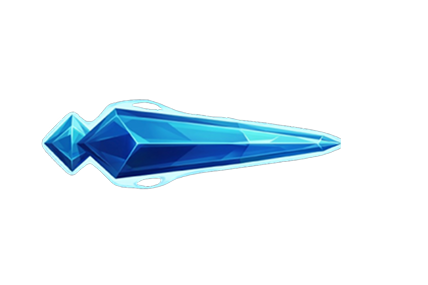
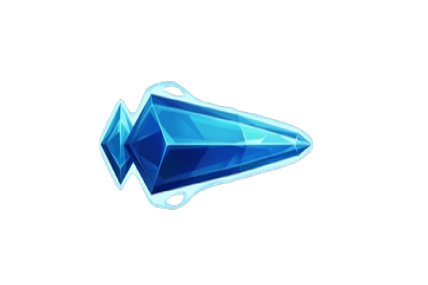
added some char texture

Changed region(s): [[0.0911, 0.2807, 0.8201, 0.7579]]

diff --git a/main.py b/main.py
@@ -44,17 +44,6 @@ running = True
 while running:
     # print(clock.get_fps())
     dt = clock.tick(60) / 1000  # .tick(framerate) mengembalikan waktu ms antar frame, ms / 1000 = detik
-
-    # og_dt = clock.tick(60) / 1000  #slow-mo effect when overloaded, use when having too much frame drops
-    # og_dt = min(og_dt, 0.033)  # cap at ~30 FPS equivalent
-    
-    # fps = clock.get_fps() 
-    # if fps < 55: time_scale += (fps / 60 - time_scale) * 5 * og_dt
-    # else: time_scale += (1.0 - time_scale) * 5 * og_dt
-    # time_scale = max(0.5, min(time_scale, 1.2))
-
-    # target_dt = 1 / 60
-    # dt = target_dt * time_scale
     
     for event in pygame.event.get():
         if event.type == pygame.QUIT:
@@ -82,7 +71,11 @@ while running:
             stage.retry(screen, PlayerTest)
             cx, cy = camera.get_snap() # snap to default pos (border, ground)
             clock.tick() #reset clock, so it doesnt make entity teleport
-            continue
+        else:
+            if stage.lost:  draw_lost(screen)
+            elif stage.win: draw_win(screen)
+            pygame.display.update()
+        continue
 
     if all(not b.alive for b in stage.boss_list):
         if PlayerTest.rect.right >= BG_WIDTH - BG_BORDER_X:
@@ -90,13 +83,6 @@ while running:
             cx, cy = camera.get_snap()
             clock.tick()
             continue
-    
-    if stage.lost: 
-        draw_lost(screen)
-        continue
-    if stage.win: 
-        draw_win(screen)
-        continue
     
     # Update Entities
     stage.update_entities(dt, PlayerTest)
@@ -108,7 +94,6 @@ while running:
     PlayerTest.update(keys, click_state, dt, stage.plat_list)
     
 
-    
     # Draw objects
     stage.draw_stage(world_surface)
 

diff --git a/Entities/Player.py b/Entities/Player.py
@@ -10,7 +10,7 @@ class Player(GameObject):
         attack_data = load_json("player/attack.json")
 
         super().__init__(x= BG_BORDER_X + 10, y=GROUND_Y, width=80, height=100, hitbox_radius=self.config['hitbox'],
-                         image_path="character/"+image, size_offsetx=50, size_offsety=30)
+                         image_path="cirno/"+image, size_offsetx=50, size_offsety=30)
 
         # elapsed -> stopwatch (0,1,2, until n) counting up <-> threshold
         # timestamp -> records the time an action triggered <-> duration
@@ -78,9 +78,15 @@ class Player(GameObject):
                 
     def draw(self, surface):
         #Character
+        
+        if self.is_phasing: self.image_path = 'phase.png'
+        elif self.is_jumping: self.image_path = 'jump.png'
+        else: self.image_path = 'cirno.png'
+        self.image_path = "cirno/" + self.image_path
         self.image = get_image(image_path=self.image_path, flipx=0 if self.facing_right else 1, rect=self.rect, 
                                                                                             size_offsetx=50, 
                                                                                             size_offsety=30)
+        self.image.set_alpha(100 if self.is_phasing else 255)
         if not (self.grace_active and pygame.time.get_ticks() % 200 < 100): #efek kedip saat kena hit
             self.draw_self(surface)
 

diff --git a/Systems/ui.py b/Systems/ui.py
@@ -63,7 +63,6 @@ def draw_win(surface):
     
     surface.fill(BLACK)
     surface.blit(text, text_rect)
-    pygame.display.flip()
 
 def draw_lost(surface):
     font = get_font(72)
@@ -72,4 +71,3 @@ def draw_lost(surface):
     
     surface.fill(BLACK)
     surface.blit(text, text_rect)
-    pygame.display.flip()

diff --git a/Shared/constants.py b/Shared/constants.py
@@ -9,8 +9,8 @@ BG_BORDER_X = (BG_WIDTH - 1920) // 2   # = 200
 BG_BORDER_Y = (BG_HEIGHT - 1080) // 2 # = 100
 
 #Debugging
-show_hitbox = True
-show_player_hitbox = True
+show_hitbox = False
+show_player_hitbox = False
 show_bullet_hitbox = False
 show_atk_hitbox = False
 show_img_rect = False
